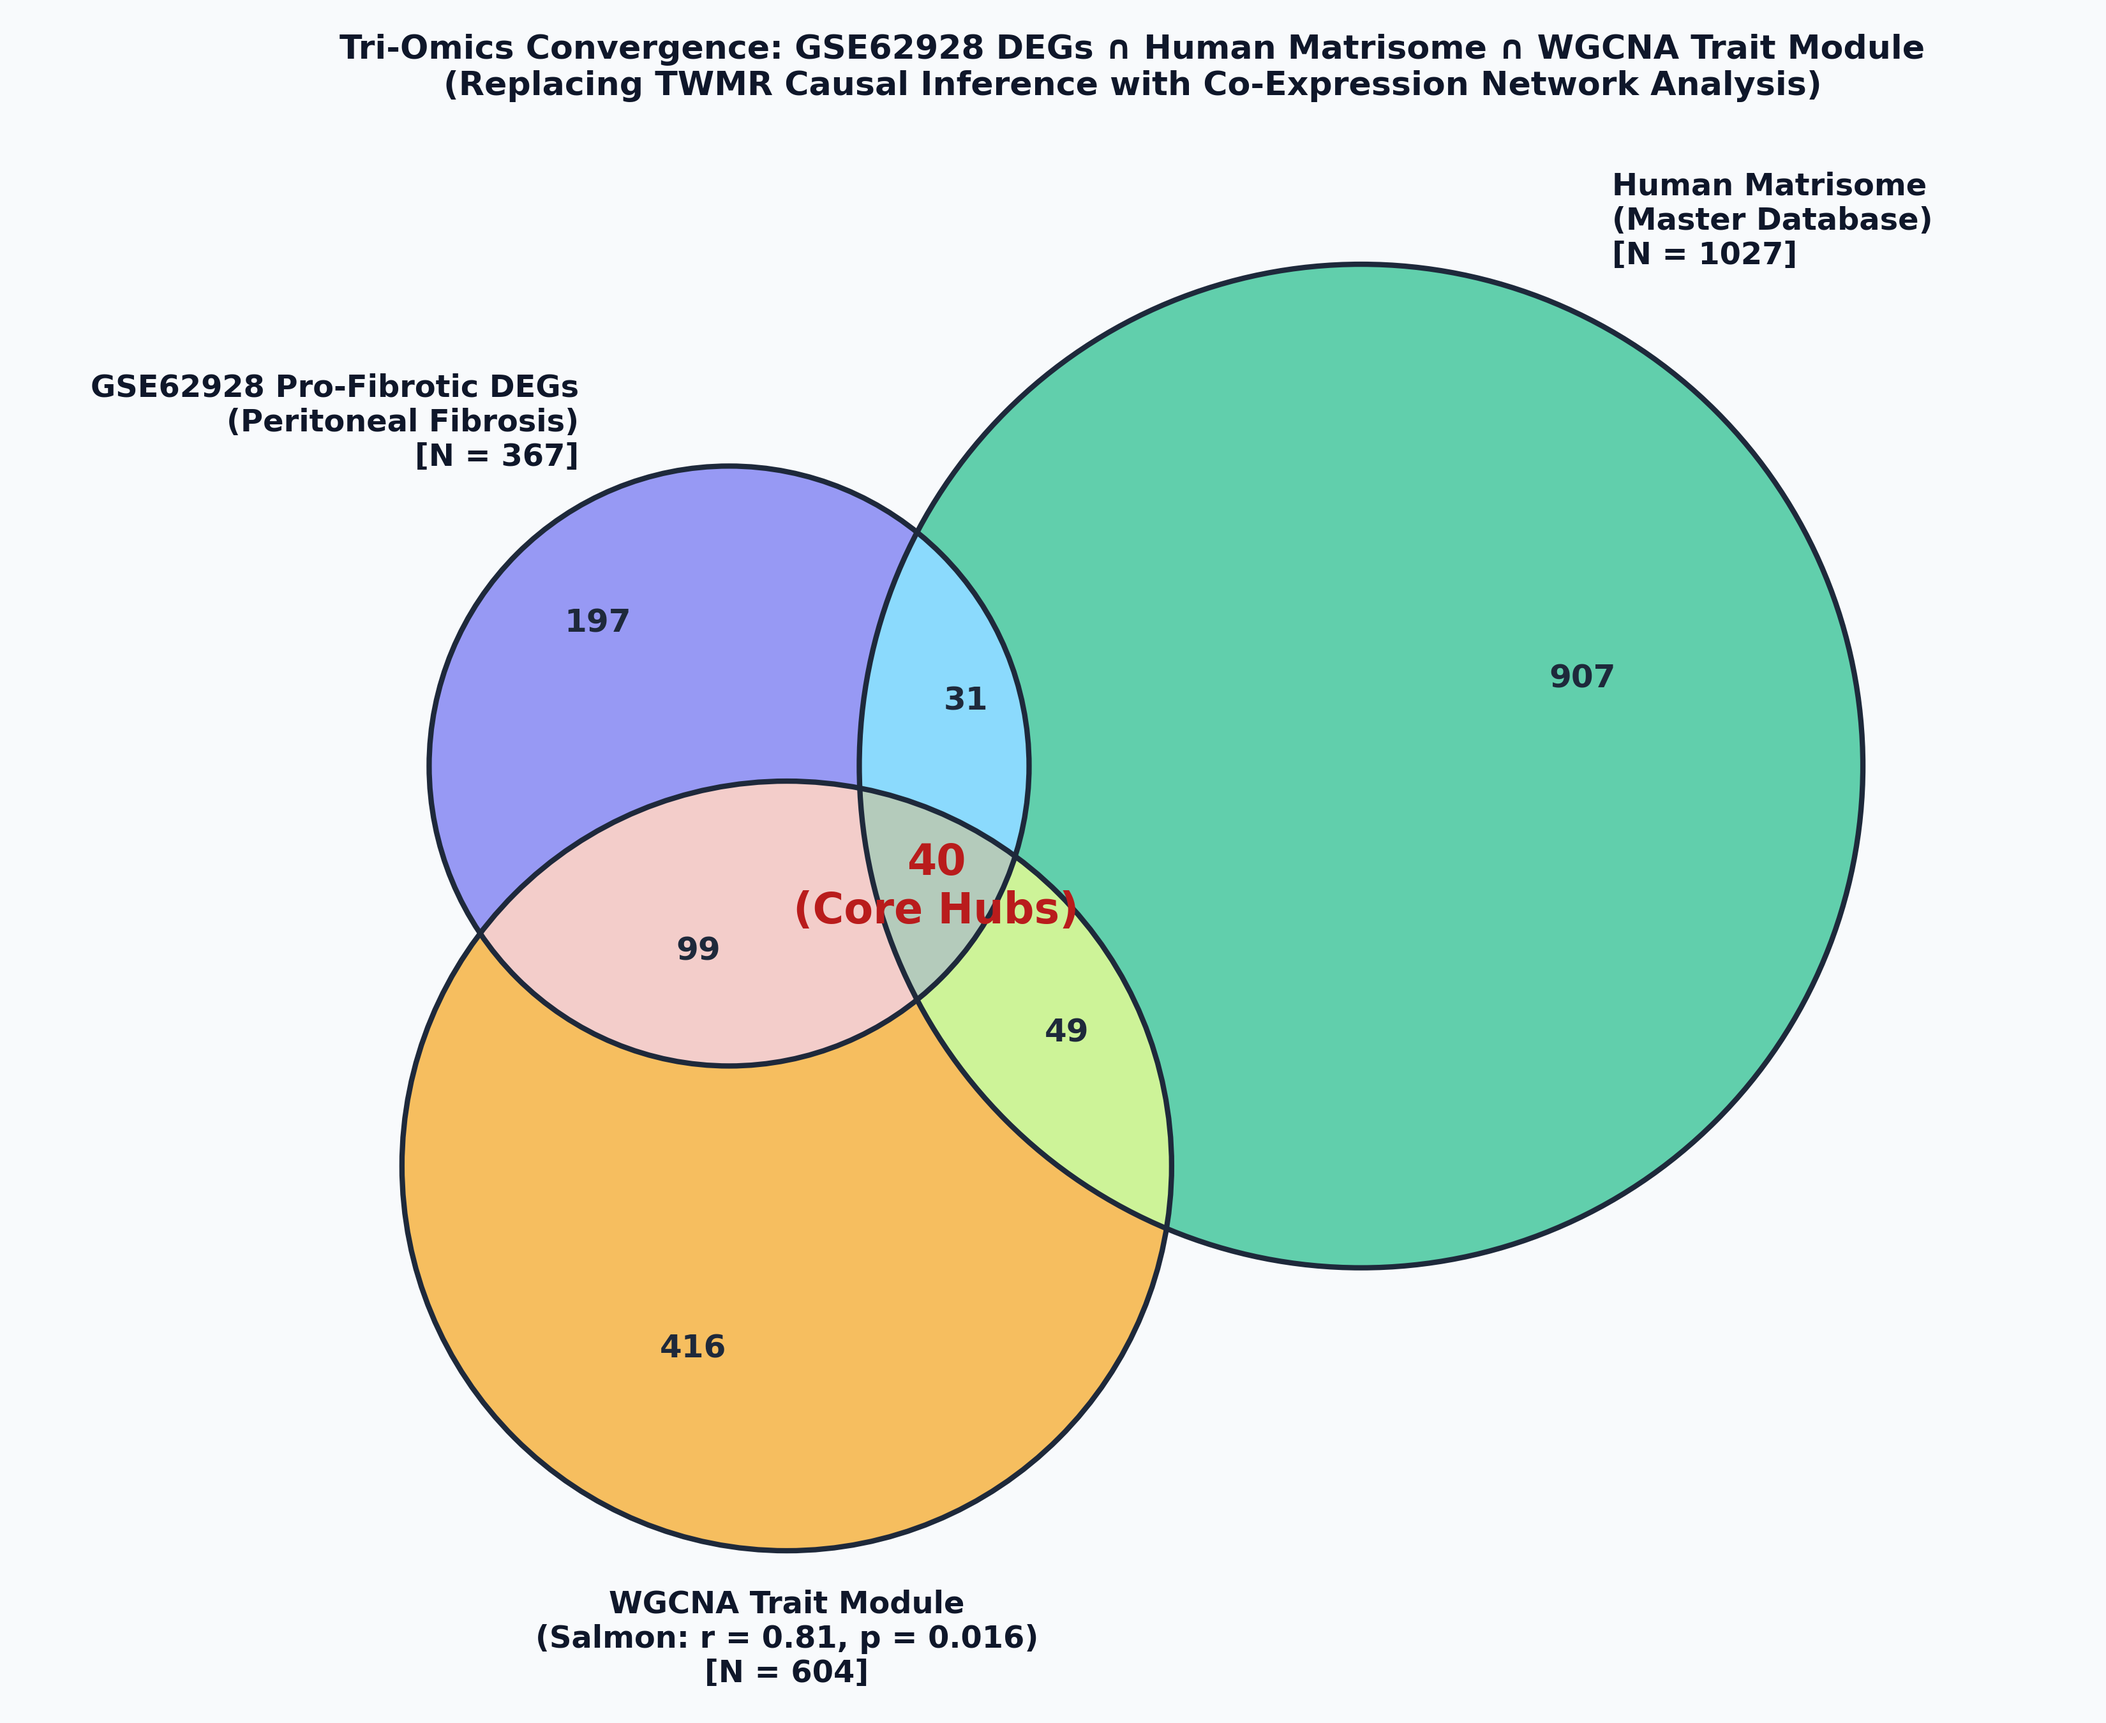
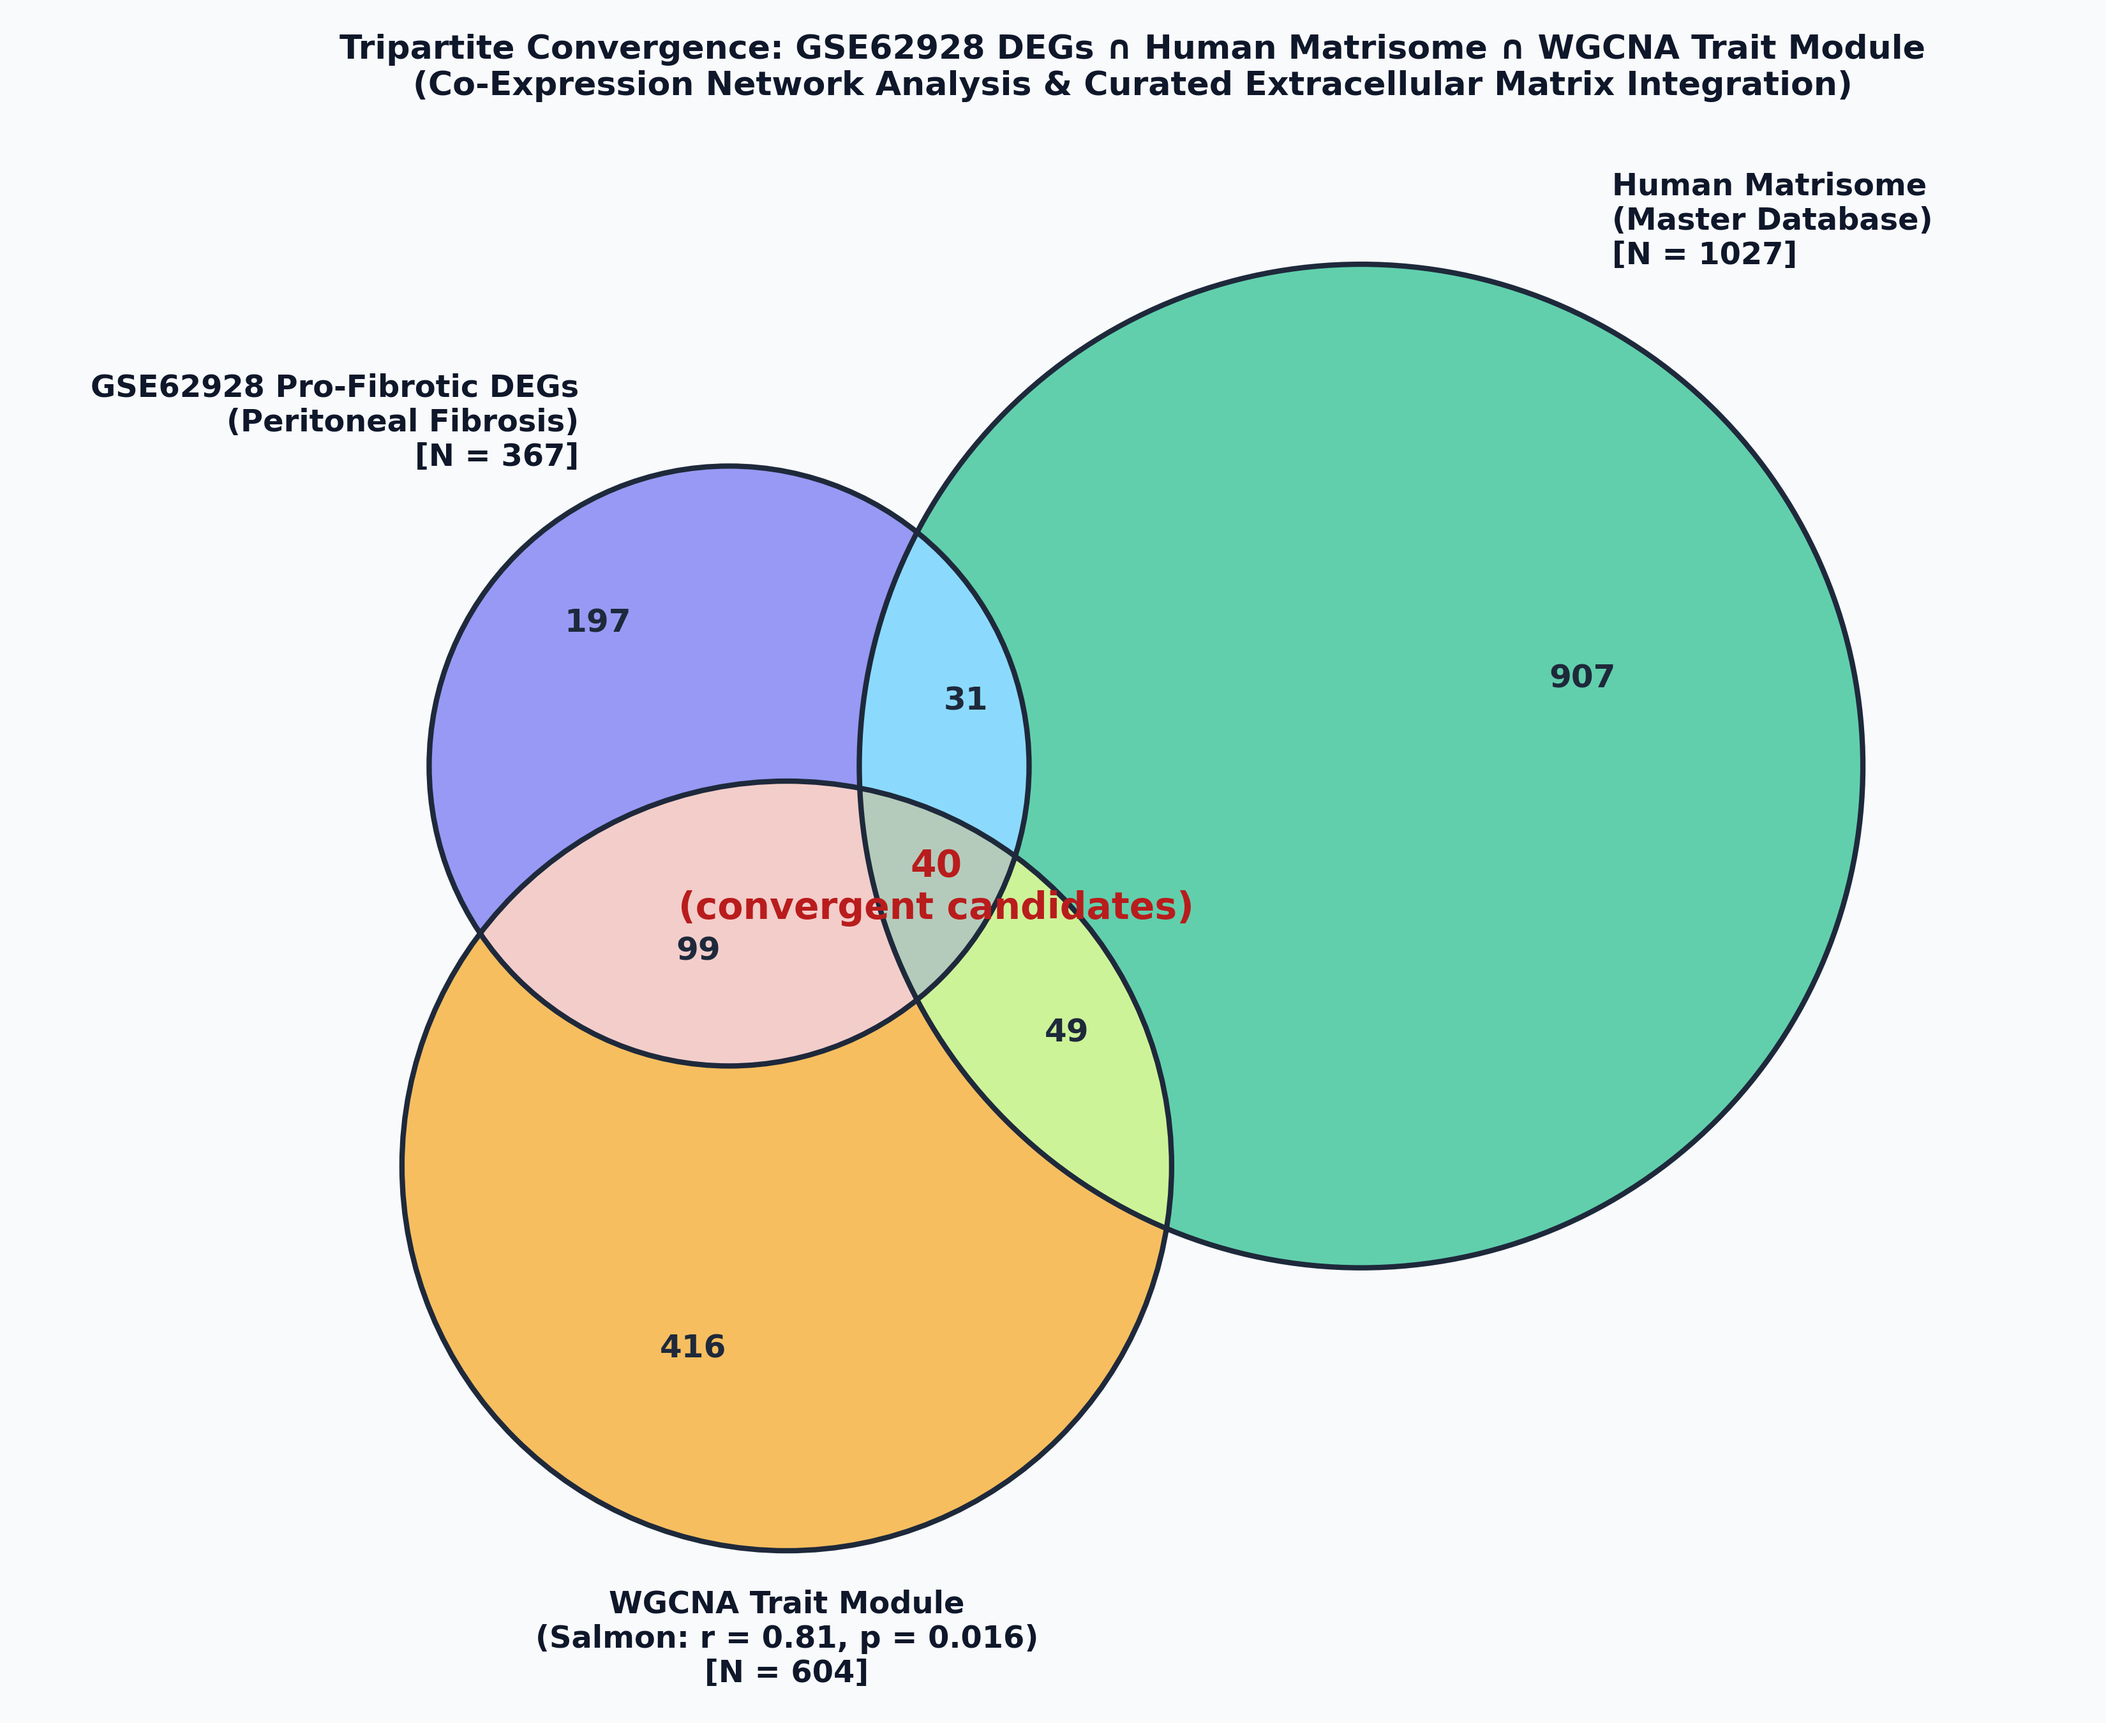
fix(figures): update convergence Venn center label to 40 convergent candidates

Changed region(s): [[0.1873, 0.0, 0.8739, 0.0622], [0.3433, 0.4978, 0.5618, 0.56]]

diff --git a/analyze_convergence_wgcna.py b/analyze_convergence_wgcna.py
@@ -167,13 +167,13 @@ for subset_id in ["100", "010", "110", "001", "101", "011"]:
 # Highlight central convergence
 lbl_111 = v.get_label_by_id("111")
 if lbl_111:
-    lbl_111.set_text(f"{n_convergent}\n(Core Hubs)")
-    lbl_111.set_fontsize(16)
+    lbl_111.set_text(f"{n_convergent}\n(convergent candidates)")
+    lbl_111.set_fontsize(14)
     lbl_111.set_fontweight("bold")
     lbl_111.set_color("#B91C1C")
 
-plt.title("Tri-Omics Convergence: GSE62928 DEGs ∩ Human Matrisome ∩ WGCNA Trait Module\n"
-          "(Replacing TWMR Causal Inference with Co-Expression Network Analysis)",
+plt.title("Tripartite Convergence: GSE62928 DEGs ∩ Human Matrisome ∩ WGCNA Trait Module\n"
+          "(Co-Expression Network Analysis & Curated Extracellular Matrix Integration)",
           fontsize=12.5, fontweight="bold", pad=20, color="#0F172A")
 
 plt.tight_layout()
